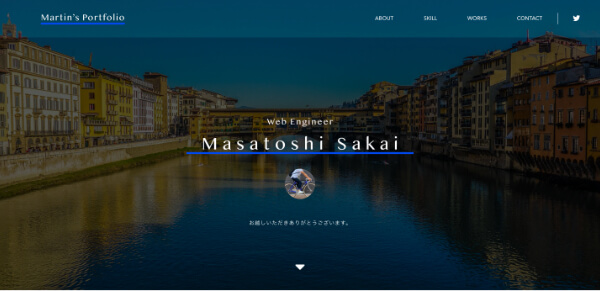
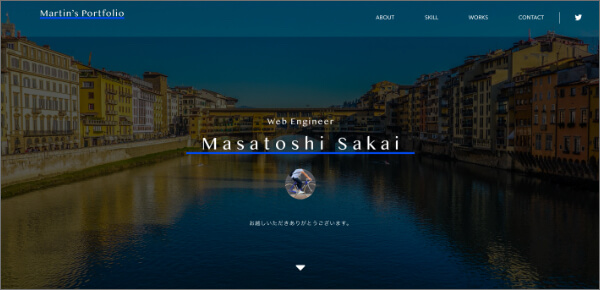
update

diff --git a/index.html b/index.html
@@ -36,7 +36,7 @@
                 <div class="top-title">
                     <img src="cmn/img/title.svg">
                 </div>
-                <img src="cmn/img/アイコン用画像加工.svg">
+                <img src="cmn/img/icon.svg">
                 <p>ご覧いただきありがとうございます。</p>
             </div>
         </div>
@@ -44,7 +44,7 @@
         <section class="area_home_about">
             <div class="container">
                 <div class="heading">
-                    <h2 name="ABOUT" class="title">ABOUT</h2>
+                    <h2 id="ABOUT" class="title">ABOUT</h2>
                 </div>
                 <div class="about-home">
                     <div class="about-wrapper">
@@ -117,7 +117,7 @@
                     <div class="work">
                         <p class="work-type">WEBサイト</p>
                         <div class="works-link">
-                            <a href="#"><img src="cmn/img/new-thumbnail.jpg" class="works-img"></a>
+                            <a href="#"><img src="cmn/img/thumbnail.jpg" class="works-img"></a>
                         </div>
                         <p class="work-title">自身のポートフォリオサイト</p>
                         <p class="work-contents">デザイン・コーティング<br>レスポンシブ対応</p>
@@ -144,9 +144,9 @@
                     <h2 id="CONTACT" class="title">CONTACT</h2>
                 </div>
                 <div class="body_home">
-                    <p>ご連絡はTwitterのDMよりお寄せください。</p>
+                    <p>ご覧いただきありがとうございました。<br>ご連絡はTwitterのDMよりお寄せください。</p>
                     <div class="contact-wrapper">
-                        <a href="https://twitter.com/martens_blog"><img src="cmn/img/アイコン用画像加工.svg" class="works-img"></a>
+                        <a href="https://twitter.com/martens_blog"><img src="cmn/img/icon.svg" class="works-img"></a>
                         <div class="btn-area">
                             <a href="https://twitter.com/martens_blog" class="btn twitter"><i class="fab fa-twitter fa-lg"></i>Twitterでフォロー</a>
                         </div>
@@ -156,8 +156,13 @@
         </section>
     </main>
     <footer>
-        <div class="copyright">
-            <p>©2020　Martin</p>
+        <div class="foot-wrapper">
+            <div class="copyright">
+                <p>©2020　Martin</p>
+            </div>
+            <div class="footer-right">
+                <a href="#header">ページ上に戻る</a>
+            </div>
         </div>
     </footer>
 </body>

diff --git a/cmn/css/stylesheet.css b/cmn/css/stylesheet.css
@@ -68,7 +68,7 @@ header > .container {
 
 /* トップビュー */
 .top-wrapper {
-    background: url(../img/top2.jpg)no-repeat bottom center;
+    background: url(../img/top.jpg)no-repeat bottom center;
     background-size: cover;
 }
 .top-wrapper > .container { 
@@ -261,7 +261,7 @@ header > .container {
 
 /* コンタクト */
 .area_home_contact {
-    height: 570px;
+    height: 500px;
     background-color: #f7f7f7;
 }
 .body_home {
@@ -270,6 +270,7 @@ header > .container {
 .body_home p {
     margin-top: 50px;
     text-align: center;
+
 }
 .contact-wrapper {
     width: 780px;
@@ -286,8 +287,16 @@ header > .container {
 }
 
 /* コピーライト */
+.foot-wrapper {
+    padding: 60px 0;
+    background-color: #f7f7f7;
+    border-top: 1px #bbb solid;
+
+}
 .copyright {
     text-align: center;
-    padding-bottom: 60px;
-    background-color: #f7f7f7;
+}
+.footer-right {
+    display: flex;
+    justify-content: flex-end;
 }
